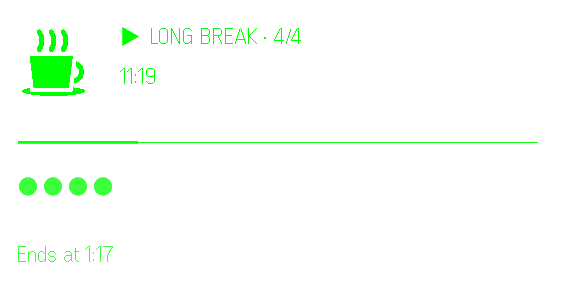
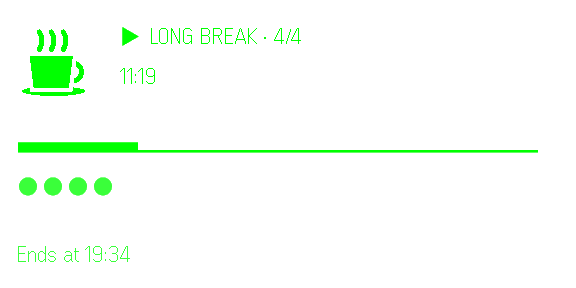
Clearer progress bar; Skip and Reset update in place
- The bar is a half-height block over a thin track. With ━/─ (3px vs
  1px lines) the filled part was hard to tell apart; both new glyphs are
  in the design guidelines' progress-bar set and check:text covers them.
- Skip and Reset upgrade the text rows and send the icon in place, like
  a phase end, instead of rebuilding the page: upgrades are flicker-free
  on hardware, and the rebuild only existed to reset the old list's
  highlight.
- Store and README screenshots retaken.

Changed region(s): [[0.0312, 0.4688, 0.9375, 0.5312], [0.1562, 0.8438, 0.2188, 0.9062]]

diff --git a/src/timer.ts b/src/timer.ts
@@ -6,7 +6,7 @@ import {
 } from './state';
 import { saveTimerState, saveSettings } from './storage';
 import {
-  updateTick, updateStatus, refreshAll, redrawPage, sendIcon, blinkStatus, cancelBlink,
+  updateTick, updateStatus, refreshAll, sendIcon, blinkStatus, cancelBlink,
 } from './glasses/display';
 
 // Wake slightly after the second boundary so the countdown never shows the same second twice.
@@ -114,6 +114,8 @@ function finishPhase(blink: boolean) {
   void refreshPhaseDisplay().then(() => { if (blink && alert) blinkStatus(); });
 }
 
+// Text upgrades and an in-place icon send rather than a page rebuild: upgrades
+// are flicker-free on hardware, and the icon only goes out when the mode changes.
 async function refreshPhaseDisplay() {
   await refreshAll();
   await sendIcon();
@@ -148,15 +150,14 @@ export function toggleTimer() {
   else startTimer();
 }
 
-// Skip and Reset rebuild the page: cheaper than upgrading five text containers.
 export async function skipToNext() {
   enterPhase(nextPhase());
-  await redrawPage();
+  await refreshPhaseDisplay();
 }
 
 export async function resetTimer() {
   enterPhase({ mode: 'work', cycle: 0 });
-  await redrawPage();
+  await refreshPhaseDisplay();
 }
 
 // New lengths apply to a phase that hasn't started yet; one in progress keeps its

diff --git a/scripts/check-text.ts b/scripts/check-text.ts
@@ -4,7 +4,8 @@
 // missing glyph is silently dropped). Run with `npm run check:text`.
 import { getAdvW, measureTextWrap } from '@evenrealities/pretext';
 import {
-  TEXT_PADDING, HEADER_WIDTH, BODY_WIDTH, PROGRESS_SEGMENTS, SETTINGS_LIMITS, OVERTIME_MAX_MS,
+  TEXT_PADDING, HEADER_WIDTH, BODY_WIDTH, PROGRESS_SEGMENTS, PROGRESS_FILLED, PROGRESS_EMPTY,
+  SETTINGS_LIMITS, OVERTIME_MAX_MS,
 } from '../src/config.ts';
 import { LANGUAGES, STRINGS } from '../src/i18n/strings.ts';
 
@@ -33,7 +34,8 @@ function checkLine(lang: string, what: string, text: string, innerWidth: number)
   if (lineCount > 1) problems.push(`${lang} ${what}: wraps (${lineWidths.join('+')}px > ${innerWidth}px) "${text}"`);
 }
 
-checkLine('all', 'progress bar', '━'.repeat(PROGRESS_SEGMENTS), bodyInner);
+checkLine('all', 'progress bar', PROGRESS_FILLED.repeat(PROGRESS_SEGMENTS), bodyInner);
+checkLine('all', 'progress track', PROGRESS_EMPTY.repeat(PROGRESS_SEGMENTS), bodyInner);
 checkLine('all', 'session dots', Array(maxSessions).fill('●').join(' '), bodyInner);
 checkLine('all', 'timer', longestOvertime, headerInner);
 

diff --git a/src/state.ts b/src/state.ts
@@ -1,6 +1,6 @@
 import type { EvenAppBridge } from '@evenrealities/even_hub_sdk';
 import type { PomodoroMode, Settings, TimerState } from './types';
-import { DEFAULT_SETTINGS, PROGRESS_SEGMENTS, OVERTIME_MAX_MS } from './config';
+import { DEFAULT_SETTINGS, PROGRESS_SEGMENTS, PROGRESS_FILLED, PROGRESS_EMPTY, OVERTIME_MAX_MS } from './config';
 import { t, formatClock } from './i18n';
 
 // --- Mutable state ---
@@ -108,7 +108,7 @@ export function buildStatusLine(): string {
 
 export function buildProgressBar(): string {
   const filled = Math.round(progressFraction() * PROGRESS_SEGMENTS);
-  return '━'.repeat(filled) + '─'.repeat(PROGRESS_SEGMENTS - filled);
+  return PROGRESS_FILLED.repeat(filled) + PROGRESS_EMPTY.repeat(PROGRESS_SEGMENTS - filled);
 }
 
 // Footer: when the phase ends while running, otherwise what a tap does.

diff --git a/src/config.ts b/src/config.ts
@@ -29,9 +29,12 @@ export const HEADER_WIDTH = 440;
 export const BODY_X = 14;
 export const BODY_WIDTH = 548;
 
-// Progress bar, drawn with ━/─ text as the design guidelines recommend. Each
-// glyph advances 20px, so 27 fit the 540px row; one more wraps and adds a scrollbar.
+// Progress bar, drawn with block glyphs from the design guidelines: a half-height
+// bar over a thin track. ━/─ (3px vs 1px lines) made the filled part hard to tell
+// apart. Each glyph advances 20px, so 27 fit the 540px row; one more wraps and adds a scrollbar.
 export const PROGRESS_SEGMENTS = 26;
+export const PROGRESS_FILLED = '▄';
+export const PROGRESS_EMPTY = '▁';
 
 // Text brightness levels (textColor, 0-4; 0 may be invisible on hardware)
 export const TEXT_BRIGHT = 4;

diff --git a/src/glasses/display.ts b/src/glasses/display.ts
@@ -97,13 +97,6 @@ export async function renderPage(): Promise<void> {
   }
 }
 
-// Redraws everything with one rebuild (~165ms) where five text upgrades
-// would take ~400ms; used when the whole page changes, as on Skip and Reset.
-export async function redrawPage(): Promise<void> {
-  if (!canDraw()) return;
-  await renderPage();
-}
-
 export async function sendIcon(): Promise<void> {
   const b = bridge;
   if (!b || !canDraw() || iconFailures >= MAX_ICON_FAILURES || lastIconMode === mode) return;

diff --git a/README.md b/README.md
@@ -10,7 +10,7 @@ A Pomodoro technique timer for **Even Realities G2** smart glasses, built with t
 - **25-minute work sessions** with 5-minute short breaks and a 15-minute long break after every 4 sessions, all adjustable on the phone
 - **One tap to start or pause**; Skip and Reset live in the glasses' contextual menu
 - **Pixel art icons**: tomato for work, coffee cup for breaks
-- **Text progress bar** (`━━━━────`), **session dots** and the clock time the phase **ends at**
+- **Text progress bar** (`▄▄▄▄▁▁▁▁`), **session dots** and the clock time the phase **ends at**
 - **Phase-end alert**: the glasses have no speaker or haptics, so the status line blinks (again every minute for 10 minutes) and the timer counts the extra time (`+02:13`) until you start the next phase
 - **Survives a locked phone and app restarts**: the timer runs on the wall clock and its state is saved on every change
 - **Phone companion page** in the Even app with the same controls and the timer settings
@@ -77,7 +77,7 @@ Store listing text, icon, screenshots and the pre-submission checklist are in [`
 ```
 [Tomato]  ▶  WORK · 1/4
           18:37
-━━━━━━━━━━━━━━━━━━────────
+▄▄▄▄▄▄▄▁▁▁▁▁▁▁▁▁▁▁▁▁▁▁▁▁▁▁
 ● ○ ○ ○
 Ends at 14:35
 ```
